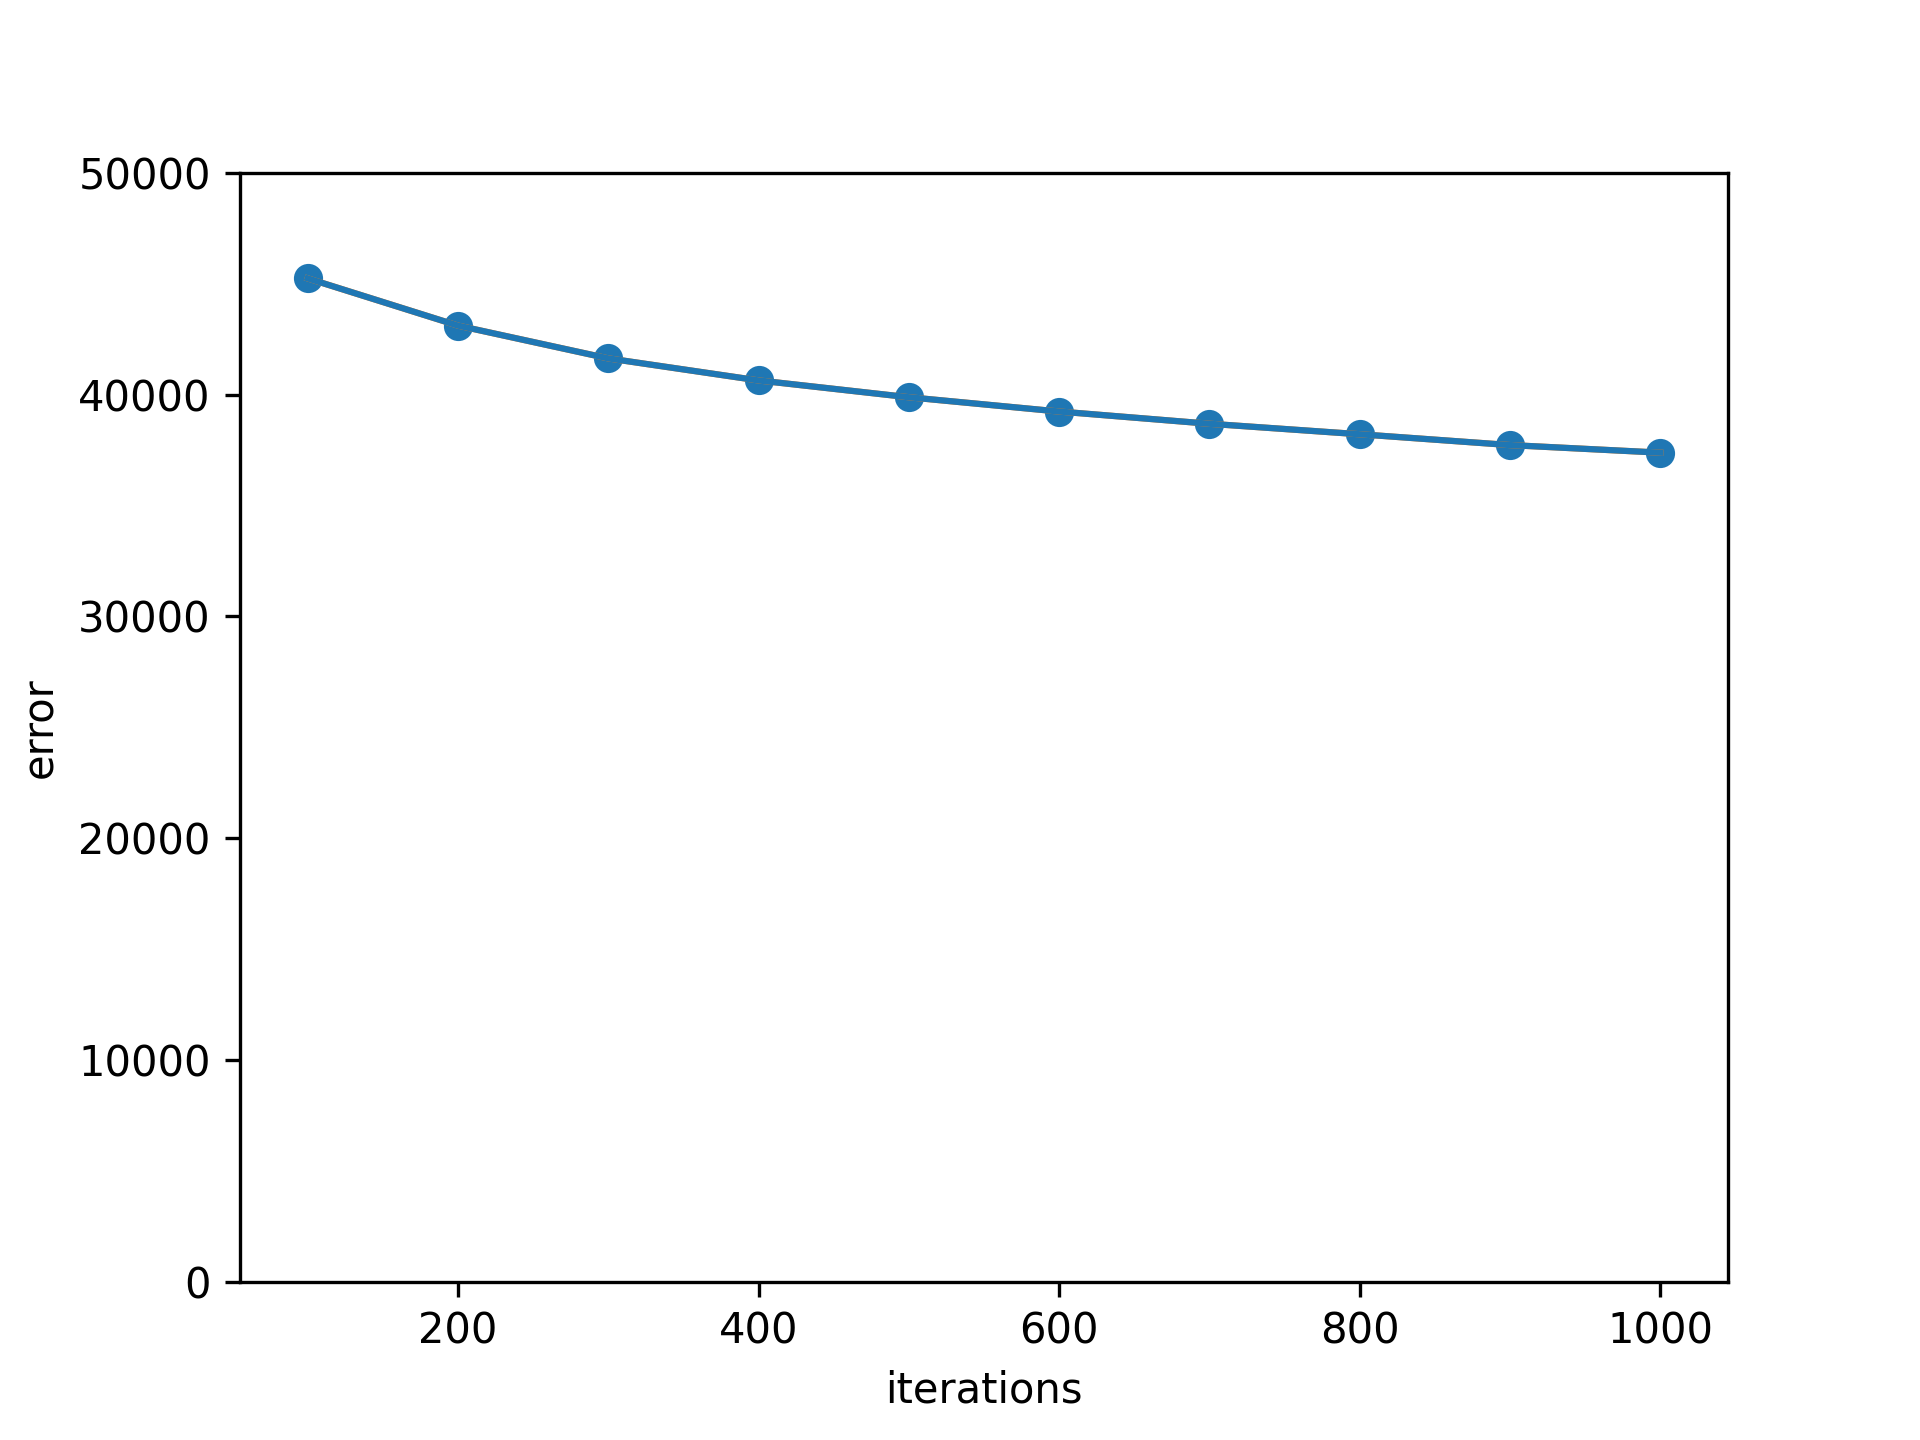
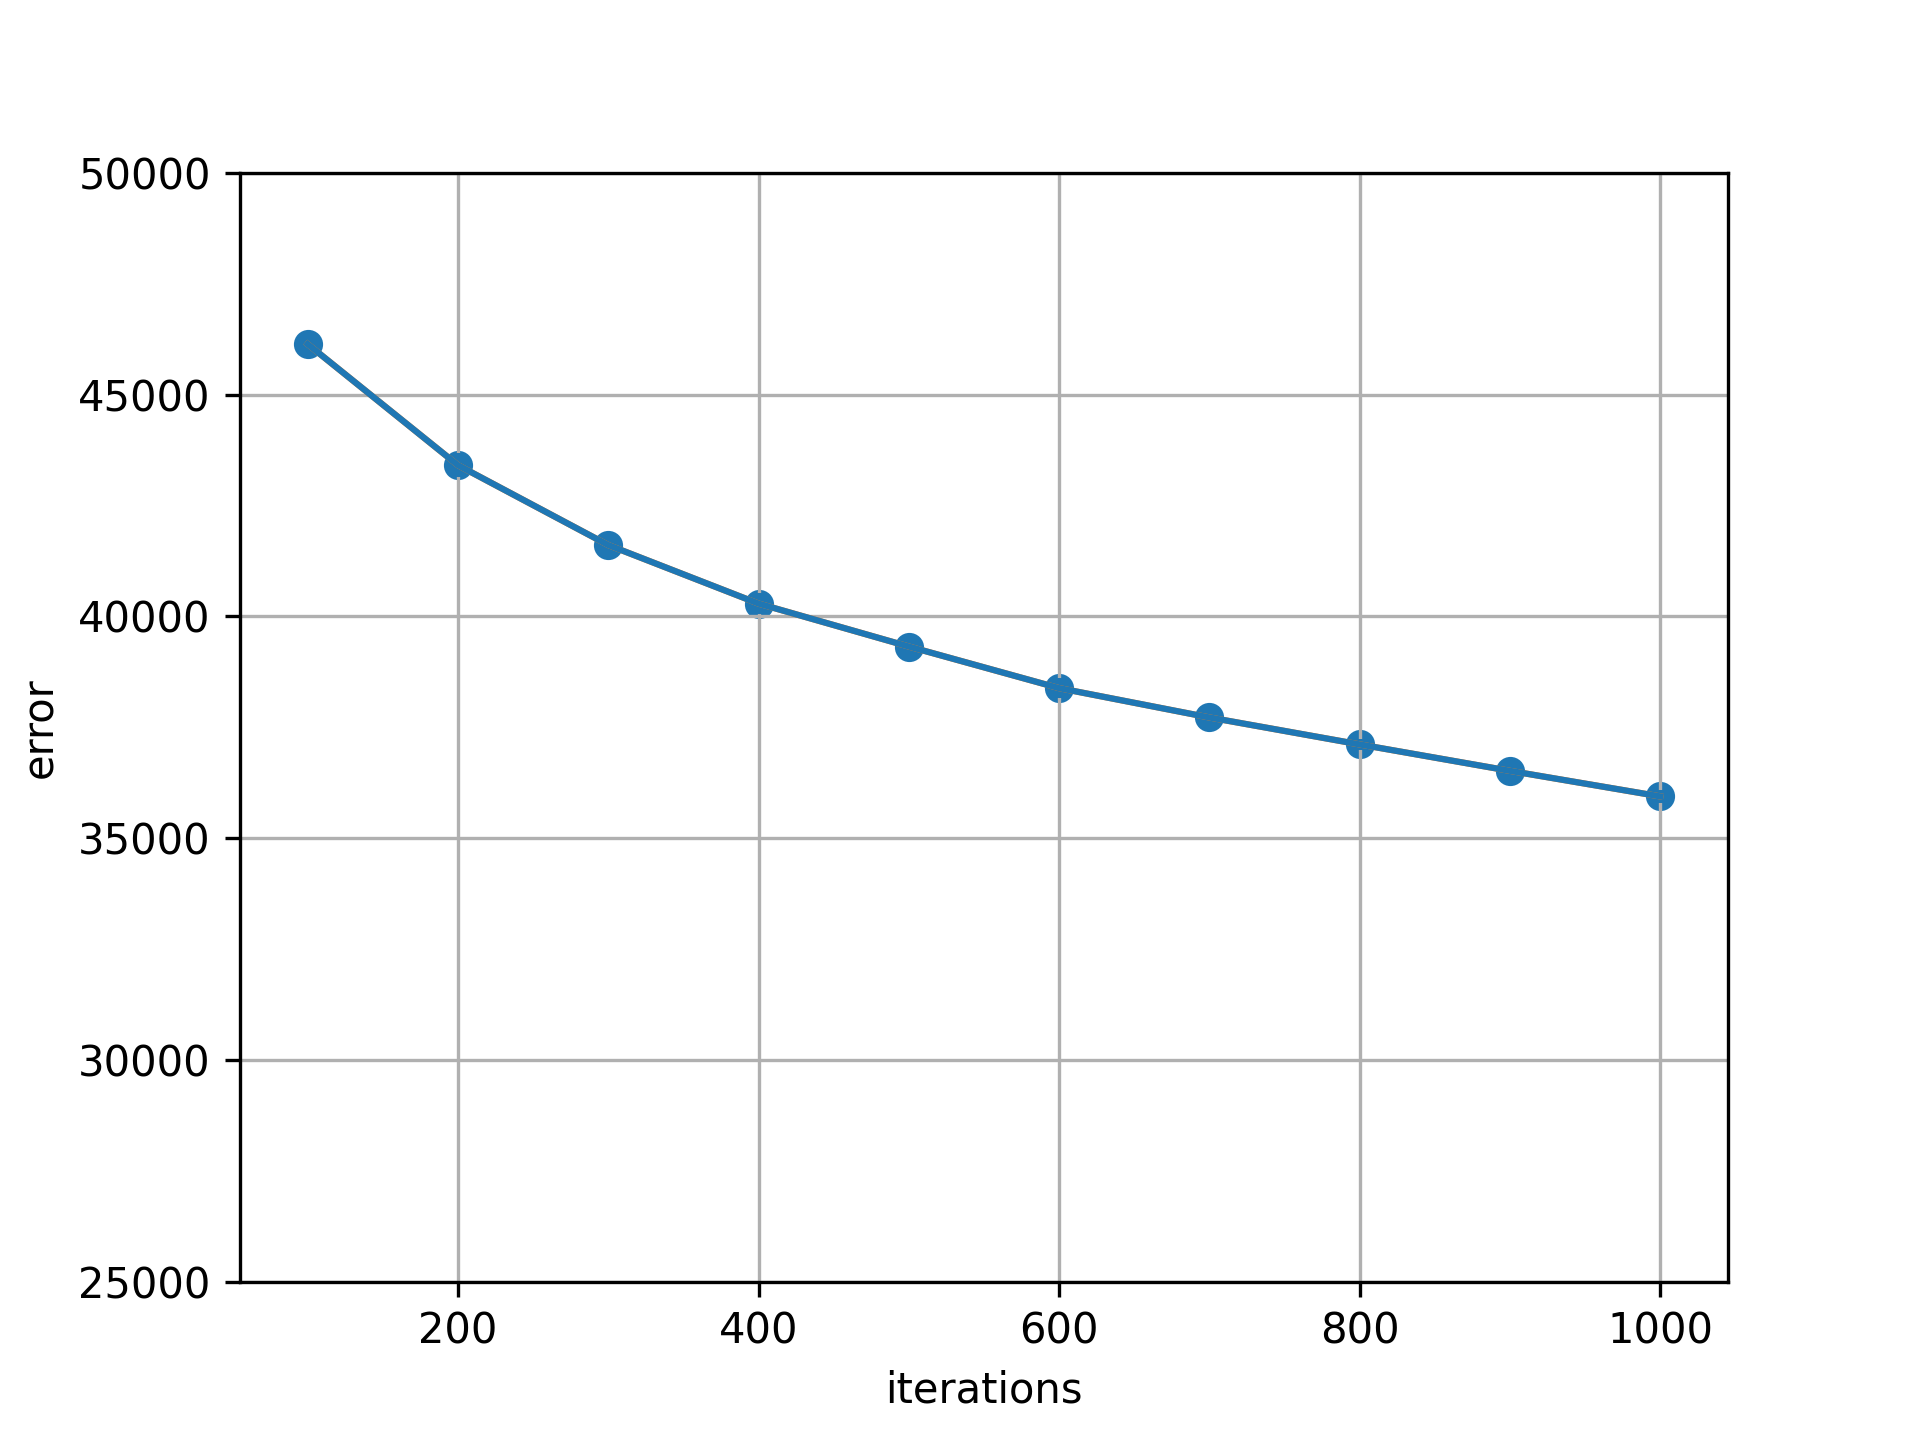
update report

diff --git a/tex/sections/bee.tex b/tex/sections/bee.tex
@@ -1,5 +1,21 @@
 \section{Bee Colony Algorithm}
 
+The artificial bee colony (ABC) algorithm is a nature-inspired, meta-heuristic optimisation
+algorithm. It was introduced by Karaboga in \cite{beecolony}, and is motivated by the behaviour of honey bees.
+
+The model defines three components: employed bees, unemployed bees, and food sources. Employed bees search for new food sources by searching in their neighbourhood. They show the gathered information to the unemployed bees, which get recruited by a probability dependent on the food source quality. Employed bees that where not able to improve the quality of their food source multiple times, will abandon this food source and become scout bees. Scouts are choosing their food source randomly.
+
+Since we are seeking to solve the Travelling Salesman Problem (TSP), each food source is defined as a route of cities. Each city is defined by a x and a y coordinate. In the TSP we aim to get the optimal order of cities, which leads to a minimal travelling distance. We introduce problem specific knowledge to the algorithm by defining its neighbourhood search. Based on the idea from Li et al. \cite{beetsp}, we obtain the neighbour of a route by swapping the order of some cities. Each city will get swapped with a certain probability, and it will get swapped with a randomly chosen city.
+
+
+\subsection{Experiments}
+
+In this section we compare our implementation of the artificial bee colony algorithm to the
+reference evolutionary algorithm on the TSP problem.
+
+As table \ref{tab:bee_vs_ea} and figure \ref{fig:bee_vs_ea} are showing, the bee colony algorithm performed slightly worse than the reference evolutionary algorithm. For our tests we initialised 40 bees and optimise over 1000 iterations. We set the randomisation factor $\alpha = 0.005$, and the abandon-limit to 200.
+The two approaches are very comparable in terms of their run-time, although the bee colony algorithm performs a higher number of evaluations over the same amount of iterations.
+
 \begin{figure}[h]
 	\centering
 	\begin{subfigure}{.5\textwidth}
@@ -24,9 +40,9 @@
 	\centering
 	\begin{tabular}{|c c c c|}
 		\hline
-		\textbf{Optimizer} & \textbf{Error} & \textbf{Evaluations} & \textbf{Runtime [s]} \\
+		\textbf{Optimiser} & \textbf{Error} & \textbf{Evaluations} & \textbf{Run-time [s]} \\
 		\hline
-		Bee Colony Algorithm & $37380.08 \pm 213.10$ & 100050 & 3.75 \\
+		Bee Colony Algorithm & $35939.18 \pm 144.21$ & 80040 & 2.93 \\
 		Reference Evolutionary Algorithm & $35012.41 \pm 482.07$ & 25000 & 2.90 \\
 		\hline
 	\end{tabular}

diff --git a/tex/sections/firefly.tex b/tex/sections/firefly.tex
@@ -10,7 +10,7 @@ brightness of the fireflies, and last, the attraction decreases with increasing
 distance.  Each firefly represents one solution to the optimisation problem. We
 initialise the fireflies randomly over the search space. The brightness of a
 firefly is determined by the firefly's error (or its reciprocal, depending if
-we seek for maximisation or minimisation). At each iteration each firefly
+we seek for maximisation or minimisation). At each iteration, each firefly
 moves a little step into the direction of each other firefly that has a higher
 brightness. The formula of the movement is given as:
 
@@ -26,7 +26,7 @@ random number between 0 and 1.
 \subsection{Experiments}
 
 In this section we compare our implementation of the firefly algorithm to the
-reference evolutionary algorithm. For our tests we initialised 50 fireflies and
+reference evolutionary algorithm on the DTLZ1 problem. For our tests we initialised 50 fireflies and
 optimise over 275 iterations. We used following parameters for all experiments:
 $\alpha = 0.001$, $\beta_0 = 1$, and $\gamma = 0.05$.
 
@@ -45,7 +45,7 @@ algorithm, the number of evaluations is not constant in each iteration.
   \centering
    \begin{tabular}{|c c c c|}
      \hline
-     \textbf{Optimizer} & \textbf{Error} & \textbf{Evaluations} & \textbf{Runtime [s]} \\
+     \textbf{Optimiser} & \textbf{Error} & \textbf{Evaluations} & \textbf{Run-time [s]} \\
      \hline
      Firefly Algorithm & $781.63 \pm 42.28$ & 227912 & 8.39 \\
      Reference Evolutionary Algorithm & $3003.58 \pm 87.35$ & 250000 & 24.53 \\
@@ -60,14 +60,14 @@ algorithm, the number of evaluations is not constant in each iteration.
   \begin{subfigure}{.5\textwidth}
     \centering
     \captionsetup{width=0.75\linewidth}
-    \includegraphics[width=0.75\linewidth]{assets/reference.png}
+    \includegraphics[width=0.75\linewidth]{assets/reference_dtlz.png}
     \caption{Error over iterations using the reference evolutionary algorithm.}
     \label{fig:sub1}
   \end{subfigure}%
   \begin{subfigure}{.5\textwidth}
     \centering
     \captionsetup{width=0.75\linewidth}
-    \includegraphics[width=0.75\linewidth]{assets/firefly.png}
+    \includegraphics[width=0.75\linewidth]{assets/firefly_dtlz.png}
     \caption{Error over iterations over using the firefly algorithm.}
     \label{fig:sub2}
   \end{subfigure}

diff --git a/scripts/generate_plots.py b/scripts/generate_plots.py
@@ -11,7 +11,7 @@ import statistics
 import numpy as np
 import matplotlib.pyplot as plt
 
-alg = 'reference_tsp'  # reference or firelfy
+alg = 'beecolony_tsp'  # reference or firelfy
 
 out_path = 'outputs/'
 files = os.listdir(out_path)
@@ -61,5 +61,6 @@ plt.plot(errors_iter.keys(), averages)
 plt.xlabel('iterations')
 plt.ylabel('error')
 x1, x2, y1, y2 = plt.axis()  
-plt.axis((x1, x2, 0, 50000))
+plt.axis((x1, x2, 25000, 50000))
+plt.grid()
 plt.savefig(out_path + alg + '.png', dpi=300)

diff --git a/tex/paper.tex b/tex/paper.tex
@@ -54,7 +54,7 @@
 
 \newcommand{\whitelist}[1]{#1}
 
-\title{\whitelist{Optimization} Method Project}
+\title{\whitelist{Optimisation} Method Project}
 \author{\whitelist{Markus Reiter}, \whitelist{Josef Gugglberger} \& \whitelist{Michael Kaltschmid}}
 
 \begin{document}
@@ -62,6 +62,7 @@
   \input{sections/introduction.tex}
   \input{sections/firefly.tex}
   \input{sections/bee.tex}
+  \input{sections/conclusion.tex}
 
   \newpage
 

diff --git a/tex/sections/conclusion.tex b/tex/sections/conclusion.tex
@@ -1,0 +1,1 @@
+\section{Conclusion}
